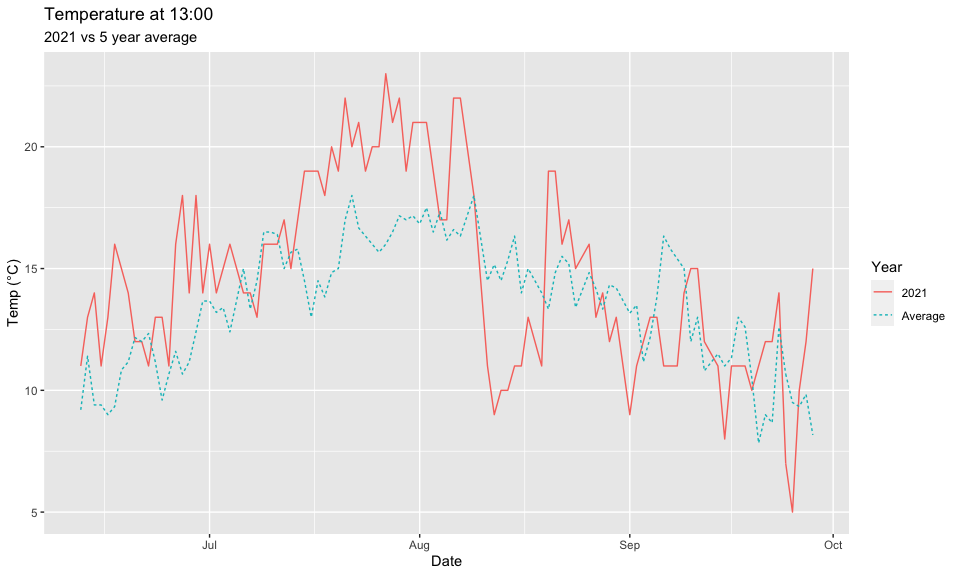
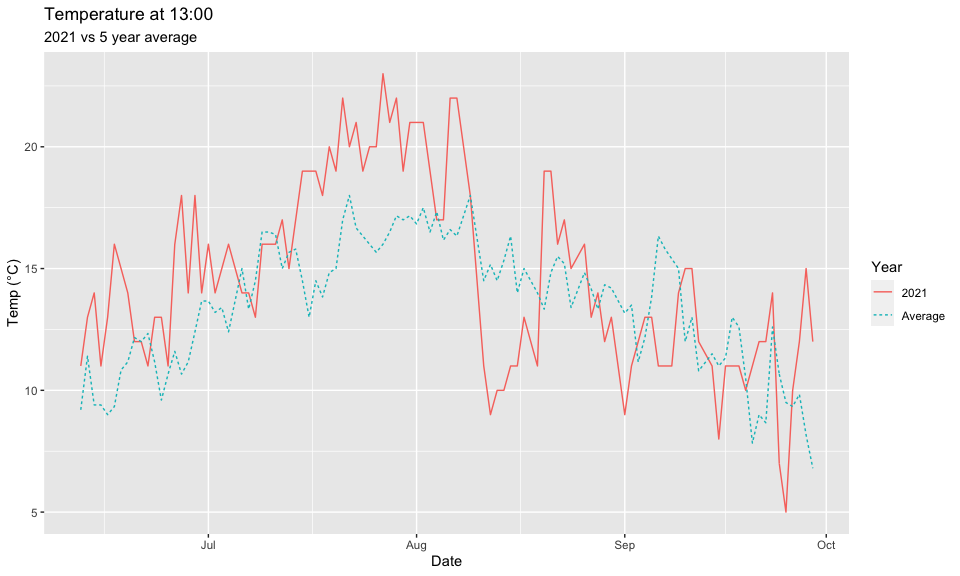
Fixed to work with new source data

diff --git a/notebooks/20210928-averaging.md b/notebooks/20210928-averaging.md
@@ -17,13 +17,6 @@ Next we load the data from google sheets. I won’t save the sheet id on
 Github, so you need to run `SHEET_ID <- "<google sheet id>"` in the
 console first.
 
-    past_df <- tibble(year = 2015:2020 %>% as.character()) %>% 
-      mutate(data = map(year, ~read_sheet(SHEET_ID, .x))) %>% 
-      unnest(data) %>% 
-      select(date, hour, temp)
-
-This years data is a bit harder to load…
-
     #' Make sure all the column names are the same. Note: this will break if columns are reordered
     rename_columns <- function (df) {
       colnames(df) <-
@@ -42,24 +35,18 @@ This years data is a bit harder to load…
       return(df)
     }
 
-    #' Convert text to a number
-    get_number <- function (x) {
-      if (!str_detect(x, "\\d")) {
-        # No number characters
-        return (NA_real_)
-      }
-      
-      fmtd <- str_remove(x, "[^\\d-\\.]")
-      
-      return (as.numeric(fmtd))
-    }
+    past_df <- tibble(year = 2015:2020 %>% as.character()) %>% 
+      mutate(data = map(year, ~read_sheet(SHEET_ID, .x))) %>% 
+      unnest(data) %>%
+      select(-year) %>% 
+      rename_columns() %>%
+      select(date, hour, temp)
+
+Then read this years data into a separate dataframe:
 
     kotoshi_df <- read_sheet(SHEET_ID, "2021") %>% 
       rename_columns() %>% 
-      select(date, hour, temp) %>% 
-      mutate(
-        temp = map_dbl(temp, get_number), # Temp has non-numeric input ("--" etc)
-      )
+      select(date, hour, temp)
 
 ## Averaging the data
 
